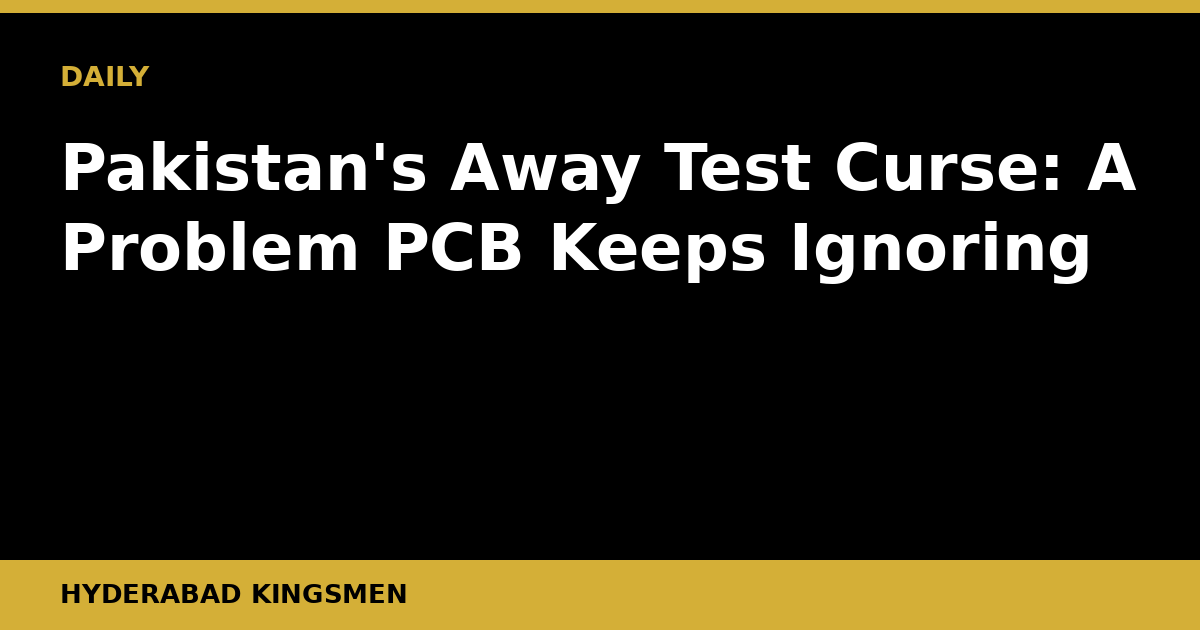
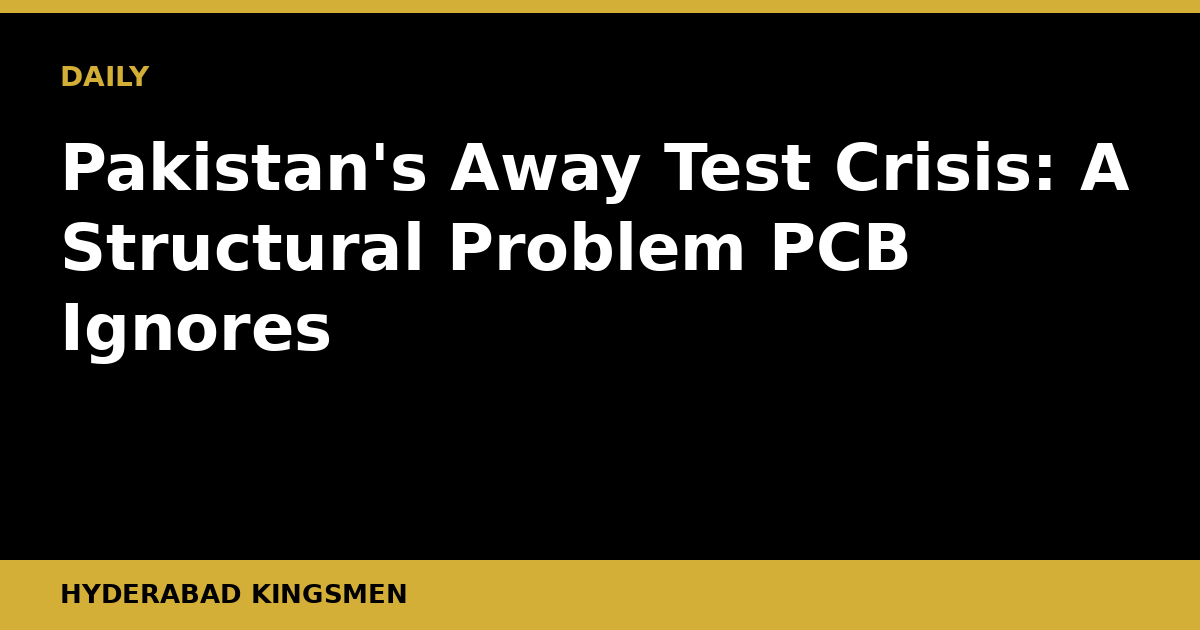
Daily post 2026-10-20

Changed region(s): [[0.0308, 0.3317, 0.925, 0.4524], [0.0308, 0.4825, 0.2775, 0.573], [0.74, 0.2111, 0.9558, 0.3016]]

diff --git a/content/posts/pakistan-away-test-struggles-structural-problem-pcb.md b/content/posts/pakistan-away-test-struggles-structural-problem-pcb.md
@@ -1,55 +1,53 @@
 ---
-title: "Pakistan's Away Test Curse: A Problem PCB Keeps Ignoring"
+title: "Pakistan's Away Test Crisis: A Structural Problem PCB Ignores"
 slug: "pakistan-away-test-struggles-structural-problem-pcb"
-date: "2026-08-09T02:58:55+05:00"
+date: "2026-10-20T05:36:22+05:00"
 draft: false
-description: "Pakistan's chronic away Test failures are not bad luck or poor form. They are the product of structural failures the PCB has repeatedly refused to confront."
+description: "Pakistan keep losing away Tests for the same fixable reasons. The PCB has the data, the resources, and the mandate — yet the structural rot persists."
 banner: "/banners/pakistan-away-test-struggles-structural-problem-pcb.png"
 kicker: "ANALYSIS"
 author: "Hyderabad Kingsmen"
 translationKey: "pakistan-away-test-struggles-structural-problem-pcb"
-tags: ["pakistan-cricket", "test-cricket", "pcb", "away-tests", "pakistan-selectors", "domestic-cricket"]
+tags: ["pakistan-cricket", "test-cricket", "pcb", "away-tests", "pakistan-batting", "domestic-cricket", "pakistan-bowling"]
 categories: ["Analysis"]
 ---
 
-Pakistan have lost 14 of their last 20 away Test series. That number, sitting there in cold print, tells you everything the post-match press conferences try to hide.
+Pakistan's away Test record over the last decade is not a run of bad luck. It is a recurring verdict on a system that keeps producing the same flaws and then expressing surprise at the same results.
 
-## The Angle: This Is Not a Slump, It Is a System
+## The Problem Is Not Talent
 
-Every time Pakistan lose a Test series in England, Australia, or South Africa, the conversation follows a familiar script. The pitch was seaming too much. The DRS went against us. A key player was injured at the wrong moment. These are deflections, not explanations.
+Let us be clear about one thing first. Pakistan are not short of Test-quality cricketers. Babar Azam, when focused and in form, is among the best batters in the world. Shaheen Shah Afridi, fit and swinging, can dismantle any top order. There is no talent crisis here. The crisis is structural, and it runs deeper than any selection committee or head coach can fix in a single tour.
 
-The real story is structural, and it runs deeper than any individual squad selection or captaincy decision.
+The core issue is preparation. Pakistan routinely arrive in England, Australia, South Africa, or New Zealand having played almost no red-ball cricket in conditions that remotely resemble what awaits them. Batters who have spent months on flat Karachi or Lahore pitches are suddenly asked to cope with lateral movement, overcast skies, and a Dukes ball that behaves nothing like an SG. The adjustment period is not a few sessions. It is a few Tests — and by then the series is gone.
 
-Pakistan's domestic red-ball structure does not prepare cricketers for the conditions they will face abroad. The Quaid-e-Azam Trophy, which is the flagship first-class competition, is played almost exclusively on surfaces that reward patience and spin. Batters learn to occupy the crease on flat decks. They are not routinely asked to negotiate genuine lateral movement off a seam, or to survive a short-pitched spell in cold morning air where the ball does something from ball one.
+## A Structural Diagnosis
 
-When those same batters land in Birmingham or Christchurch, they are learning on the job. At Test level, that education is brutally expensive.
+The PCB's domestic calendar is the starting point of this failure. The Quaid-e-Azam Trophy, Pakistan's premier first-class competition, is genuinely competitive and produces technically sound players. The problem is what happens to those players after the QeA Trophy ends. The pipeline from domestic red-ball cricket to a structured, well-resourced preparation program for overseas tours simply does not function reliably.
 
-## The Bowling Side Is No Different
+England, by contrast, operate a Lions program that sends a shadow national squad to challenging conditions months before the senior team travels. Australia embed their fringe Test players in county cricket in England before an Ashes series. These are not accident — they are deliberate investments in away readiness.
 
-Pakistan produce fast bowlers of genuine quality, and that talent pipeline is one of the few things the PCB genuinely deserves credit for. But even the bowlers arrive at away Tests with a specific kind of conditioning gap.
+Pakistan have spoken about a Pakistan Shaheens program for years. Results from it, in terms of measurable preparation impact for away Tests, have been inconsistent at best.
 
-Bowling in Karachi or Lahore in October teaches a seamer to reverse-swing an old ball and extract turn from rough. It does not teach him to bowl 20 consecutive overs in overcast English conditions, holding his length precisely while the ball swings conventionally and his body is fighting fatigue in unfamiliar cold. The workload management required for away Tests in the subcontinent's off-season is a separate craft, and Pakistan fast bowlers often look spent by the third or fourth day of a five-day match abroad.
+Then there is the batting philosophy problem. Pakistani batters are routinely coached to play through the line on true-bouncing, slow-turning home pitches. Against swing and seam in alien conditions, that instinct becomes a liability. The feet stop moving, the hands come away from the body, and edges fly to second slip. This is not a character flaw in the batters. It is a coaching and preparation flaw that the system has never systematically addressed.
 
-Supportive staff, analyst teams, and pre-tour conditioning camps have all been announced at various points. They have not produced systemic improvement because they address symptoms rather than causes.
+## The Bowling Side Is Not Innocent Either
 
-## The Selectors and the Carousel Problem
+Pakistan's pace attack, when healthy, is feared globally — and rightly so. But away from home, the same bowlers often struggle with length and discipline in conditions that demand more patience than raw aggression. Shorter spells, more reliable backup seam options, and a bowling group that trusts their processes under flat overhead conditions are all things that consistent away teams possess.
 
-There is also a selection philosophy issue that compounds everything. Pakistan's selectors have, over the past decade, shown a preference for recycling familiar names over backing emerging players through an extended run in the side. A young batter who fails in one away series is often dropped before he has absorbed enough lessons from the experience to apply them.
+Pakistan's spin resources, always a strength at home, become a secondary weapon overseas rather than a genuine attacking option. Relying almost entirely on pace in away conditions, without the seam depth that England or Australia rotate through their attacks, leaves Pakistan's bowling thin by day three of a Test.
 
-Conversely, senior players whose techniques are clearly unsuited to moving-ball conditions continue to be picked on reputation. The result is a squad that is neither genuinely rebuilding nor performing at its ceiling. It is stuck in an expensive middle ground.
+## What Needs to Change
 
-England's approach under Brendon McCullum and Ben Stokes, controversial as it is, at least reflects a coherent philosophy that the squad executes collectively. Australia's system produces cricketers who are specifically conditioned, mentally and technically, for the demands of Test cricket everywhere. Pakistan's system produces cricketers who are magnificent in certain contexts and visibly lost in others.
+The PCB must build a mandatory pre-tour camp that replicates away conditions with genuine intent, not just for a week on a prepared surface in Lahore but through organised fixtures in the host country or a comparable environment weeks before the first Test.
 
-## The PCB's Role, Plainly Stated
+The Shaheens program needs teeth: consistent fixtures against proper opposition in genuine conditions, not curated tours that end up resembling promotional exercises.
 
-The PCB has had multiple opportunities to reorient domestic cricket to produce more versatile, away-ready Test players. Pitches for first-class matches could carry instructions mandating some variety in surface preparation. Tours and A-team series abroad could be scheduled with greater seriousness and genuine competitive intent rather than as warm-weather bonding trips. Central contracts could reward red-ball performance more heavily to encourage the best players to prioritise Test cricket.
+More Pakistan players need to play county cricket in England or grade cricket in Australia during the off-season. The PCB should be facilitating this actively, not leaving it to agents and individual ambition.
 
-None of this has happened in any sustained or meaningful way. Each new administration arrives with a reorganisation plan, upsets the existing structures, and then is replaced before any changes mature into results.
+Finally, the selection committee must stop treating away Tests as opportunities to blood youngsters or rest seniors. Away Tests require experienced players who have been through those conditions before. The learning curve is a luxury Pakistan cannot afford to pay for with series defeats.
 
-## What to Watch Next
+## What to Watch
 
-Pakistan's upcoming away fixtures in the ICC World Test Championship cycle will offer the next evidence set. Watch specifically for how top-order batters cope against new-ball movement in the first hour of play, and whether the fast bowlers can sustain pressure across long spells on days three and four when conditions ease and runs are available.
+Pakistan's upcoming Test commitments abroad will be the clearest referendum yet on whether any of this thinking has penetrated the PCB's planning. Watch how early the squad assembles in the host country, how many red-ball warm-up games they insist on, and whether the batting lineup shows any evidence of adjusted technique and intent under movement. If the preparation looks like every other recent tour, so will the result.
 
-If the patterns repeat, and there is little structural reason to believe they will not, the conversation after the series will once again focus on individuals rather than systems. That conversation will, once again, miss the point.
-
-Pakistan will produce another generation of brilliantly talented cricketers. Without a system designed to make them competitive everywhere, that talent will keep peaking in home series and fading in the places where Test cricket's hardest examinations are set.
+The talent is there. The will to build a proper system around it is the question that the PCB has so far refused to answer seriously.
